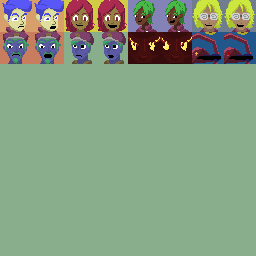
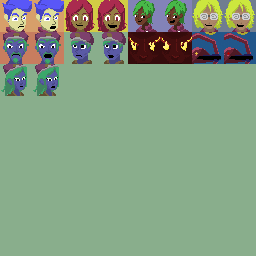
Add third gamilon portrait

Changed region(s): [[0.0, 0.25, 0.25, 0.375]]

diff --git a/src/game-world.js b/src/game-world.js
@@ -11,7 +11,7 @@ const dummyEnemiesPopulate = function (entities, rng, names) {
     AddComponent(e, 'RotationComponent', new RotationComponent(Math.random() * Math.PI * 2));
     AddComponent(e, 'DexterityComponent', new DexterityComponent(4));
     AddComponent(e, 'MeshComponent', new MeshComponent());
-    AddComponent(e, 'PortraitComponent', new NameComponent('gamilon1'));
+    AddComponent(e, 'PortraitComponent', new NameComponent('gamilon3'));
     AddComponent(e, 'AttackStrengthComponent', new AttackStrengthComponent(4));
     AddComponent(e, 'AttackRangeComponent', new AttackRangeComponent(10));
     AddComponent(e, 'AIControlComponent', new AIControlComponent());

diff --git a/src/scene/gameplay.js b/src/scene/gameplay.js
@@ -331,6 +331,7 @@ Gameplay.prototype.createPortraitAnimations = function() {
   generate('gamilon2', 10, 11, 0);
   generate('old_god', 12, 13, -1);
   generate('gamilon_mini', 14, 15, 0);
+  generate('gamilon3', 16, 17, 0);
 };
 Gameplay.prototype.create = function () {
   this.exiting = false;
